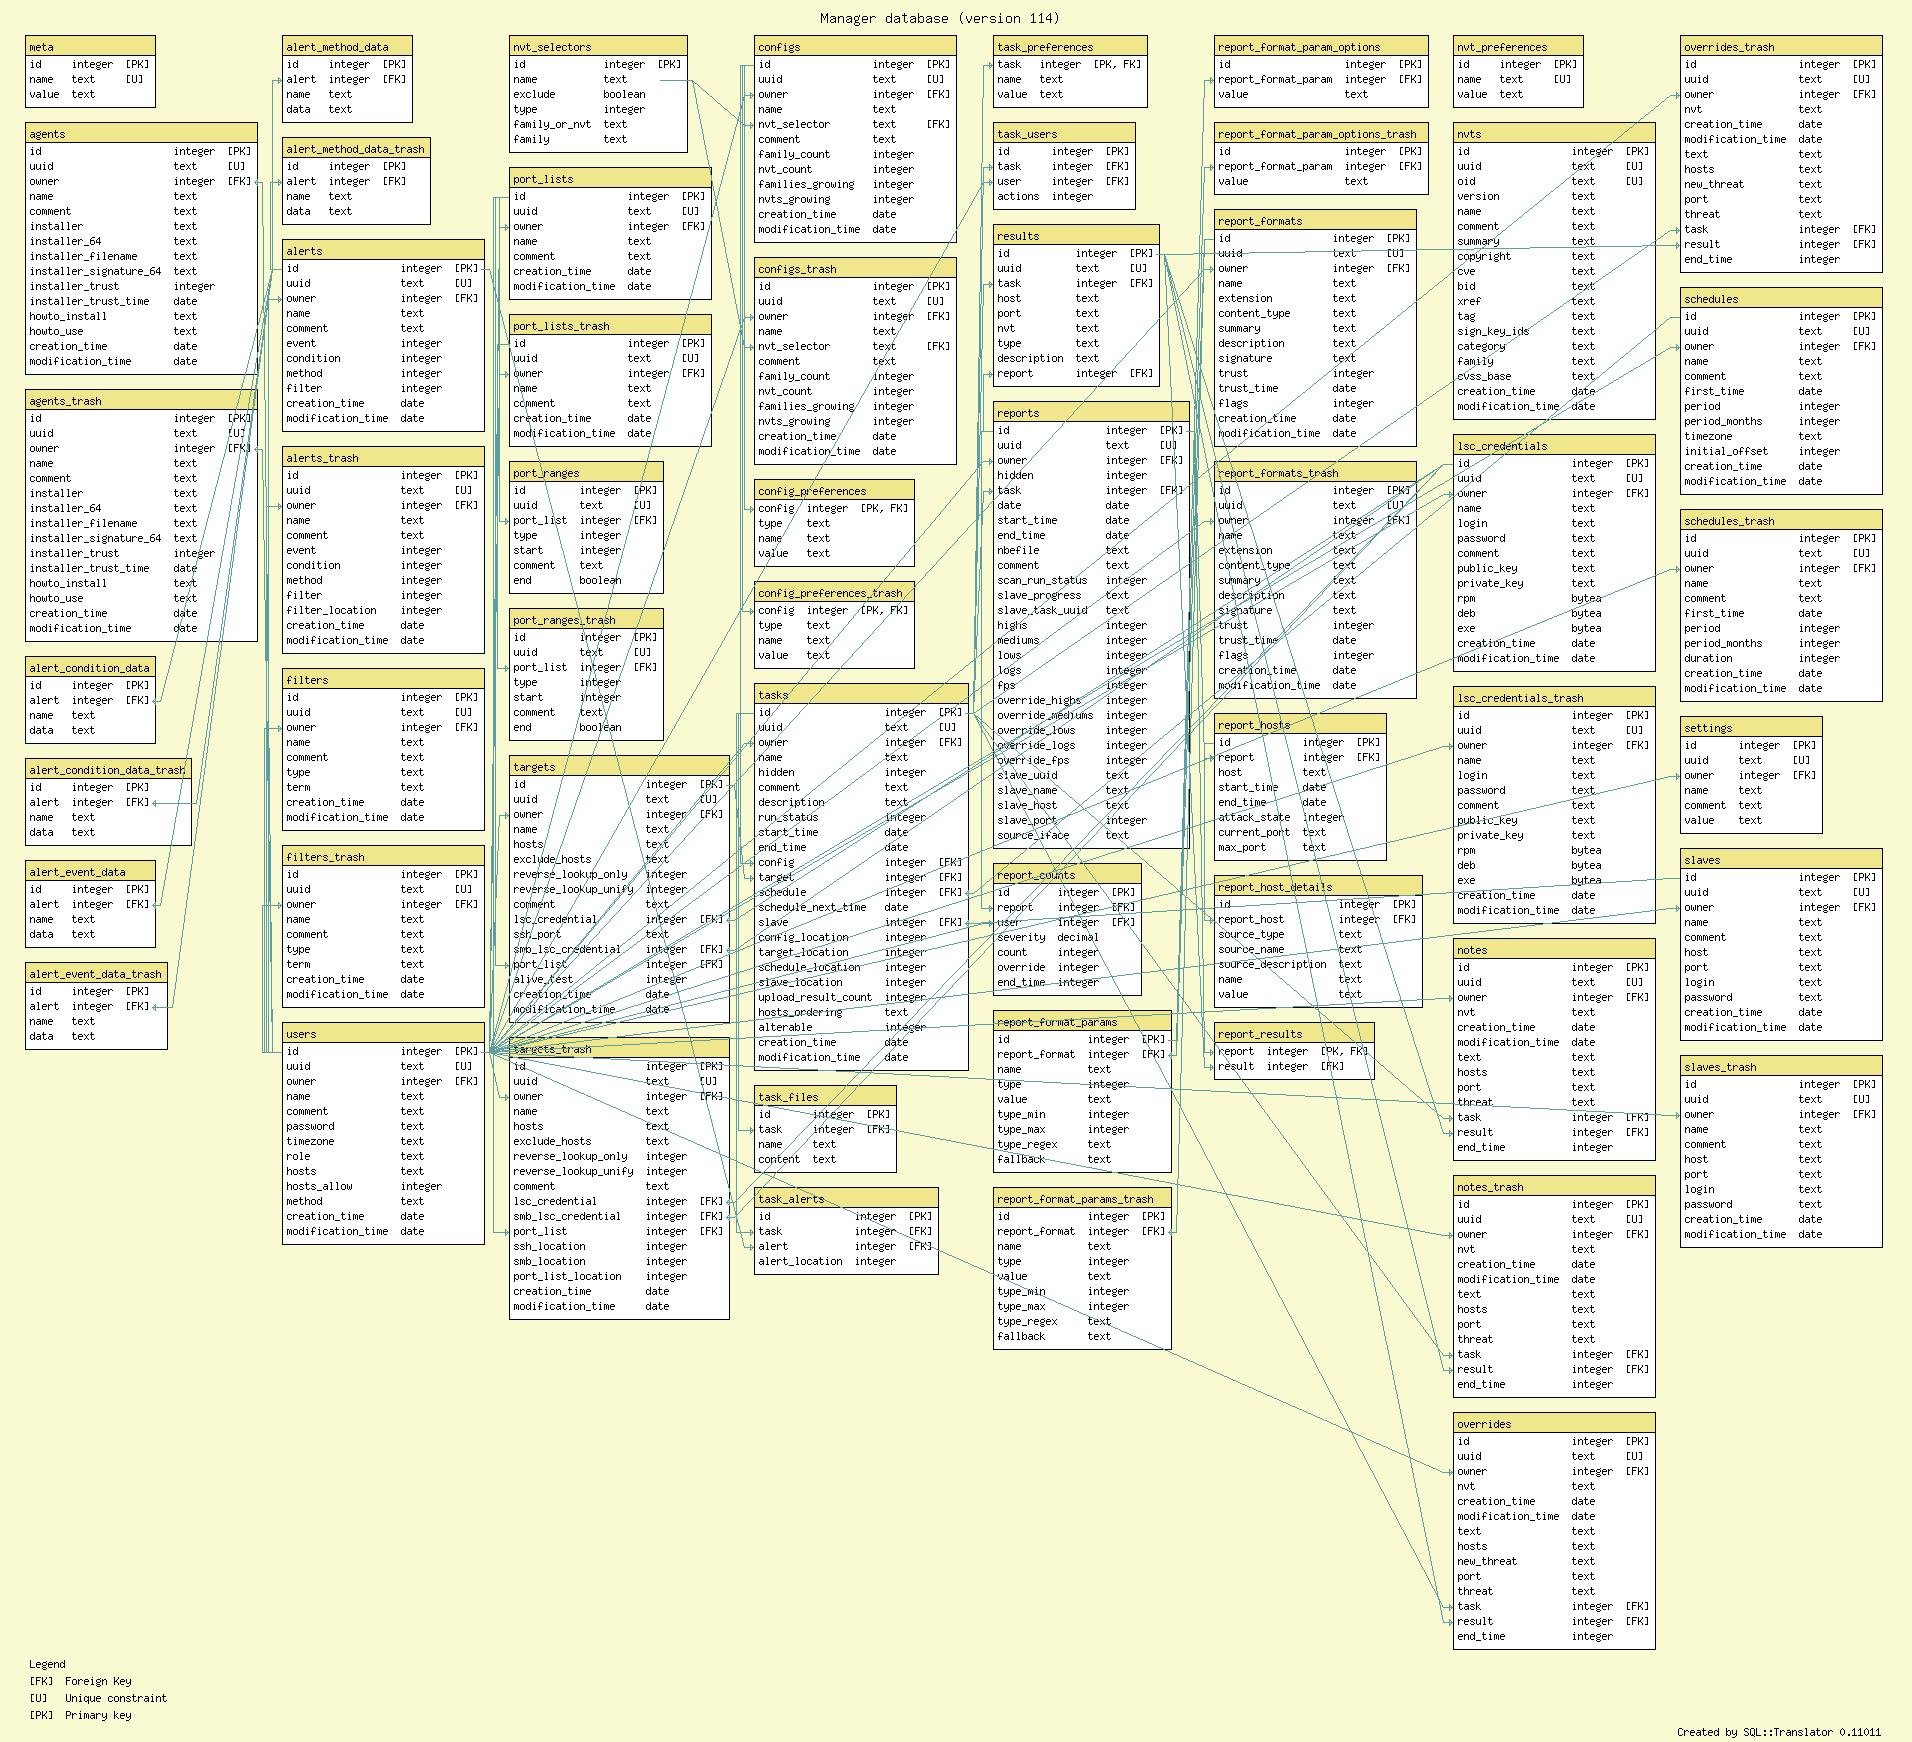
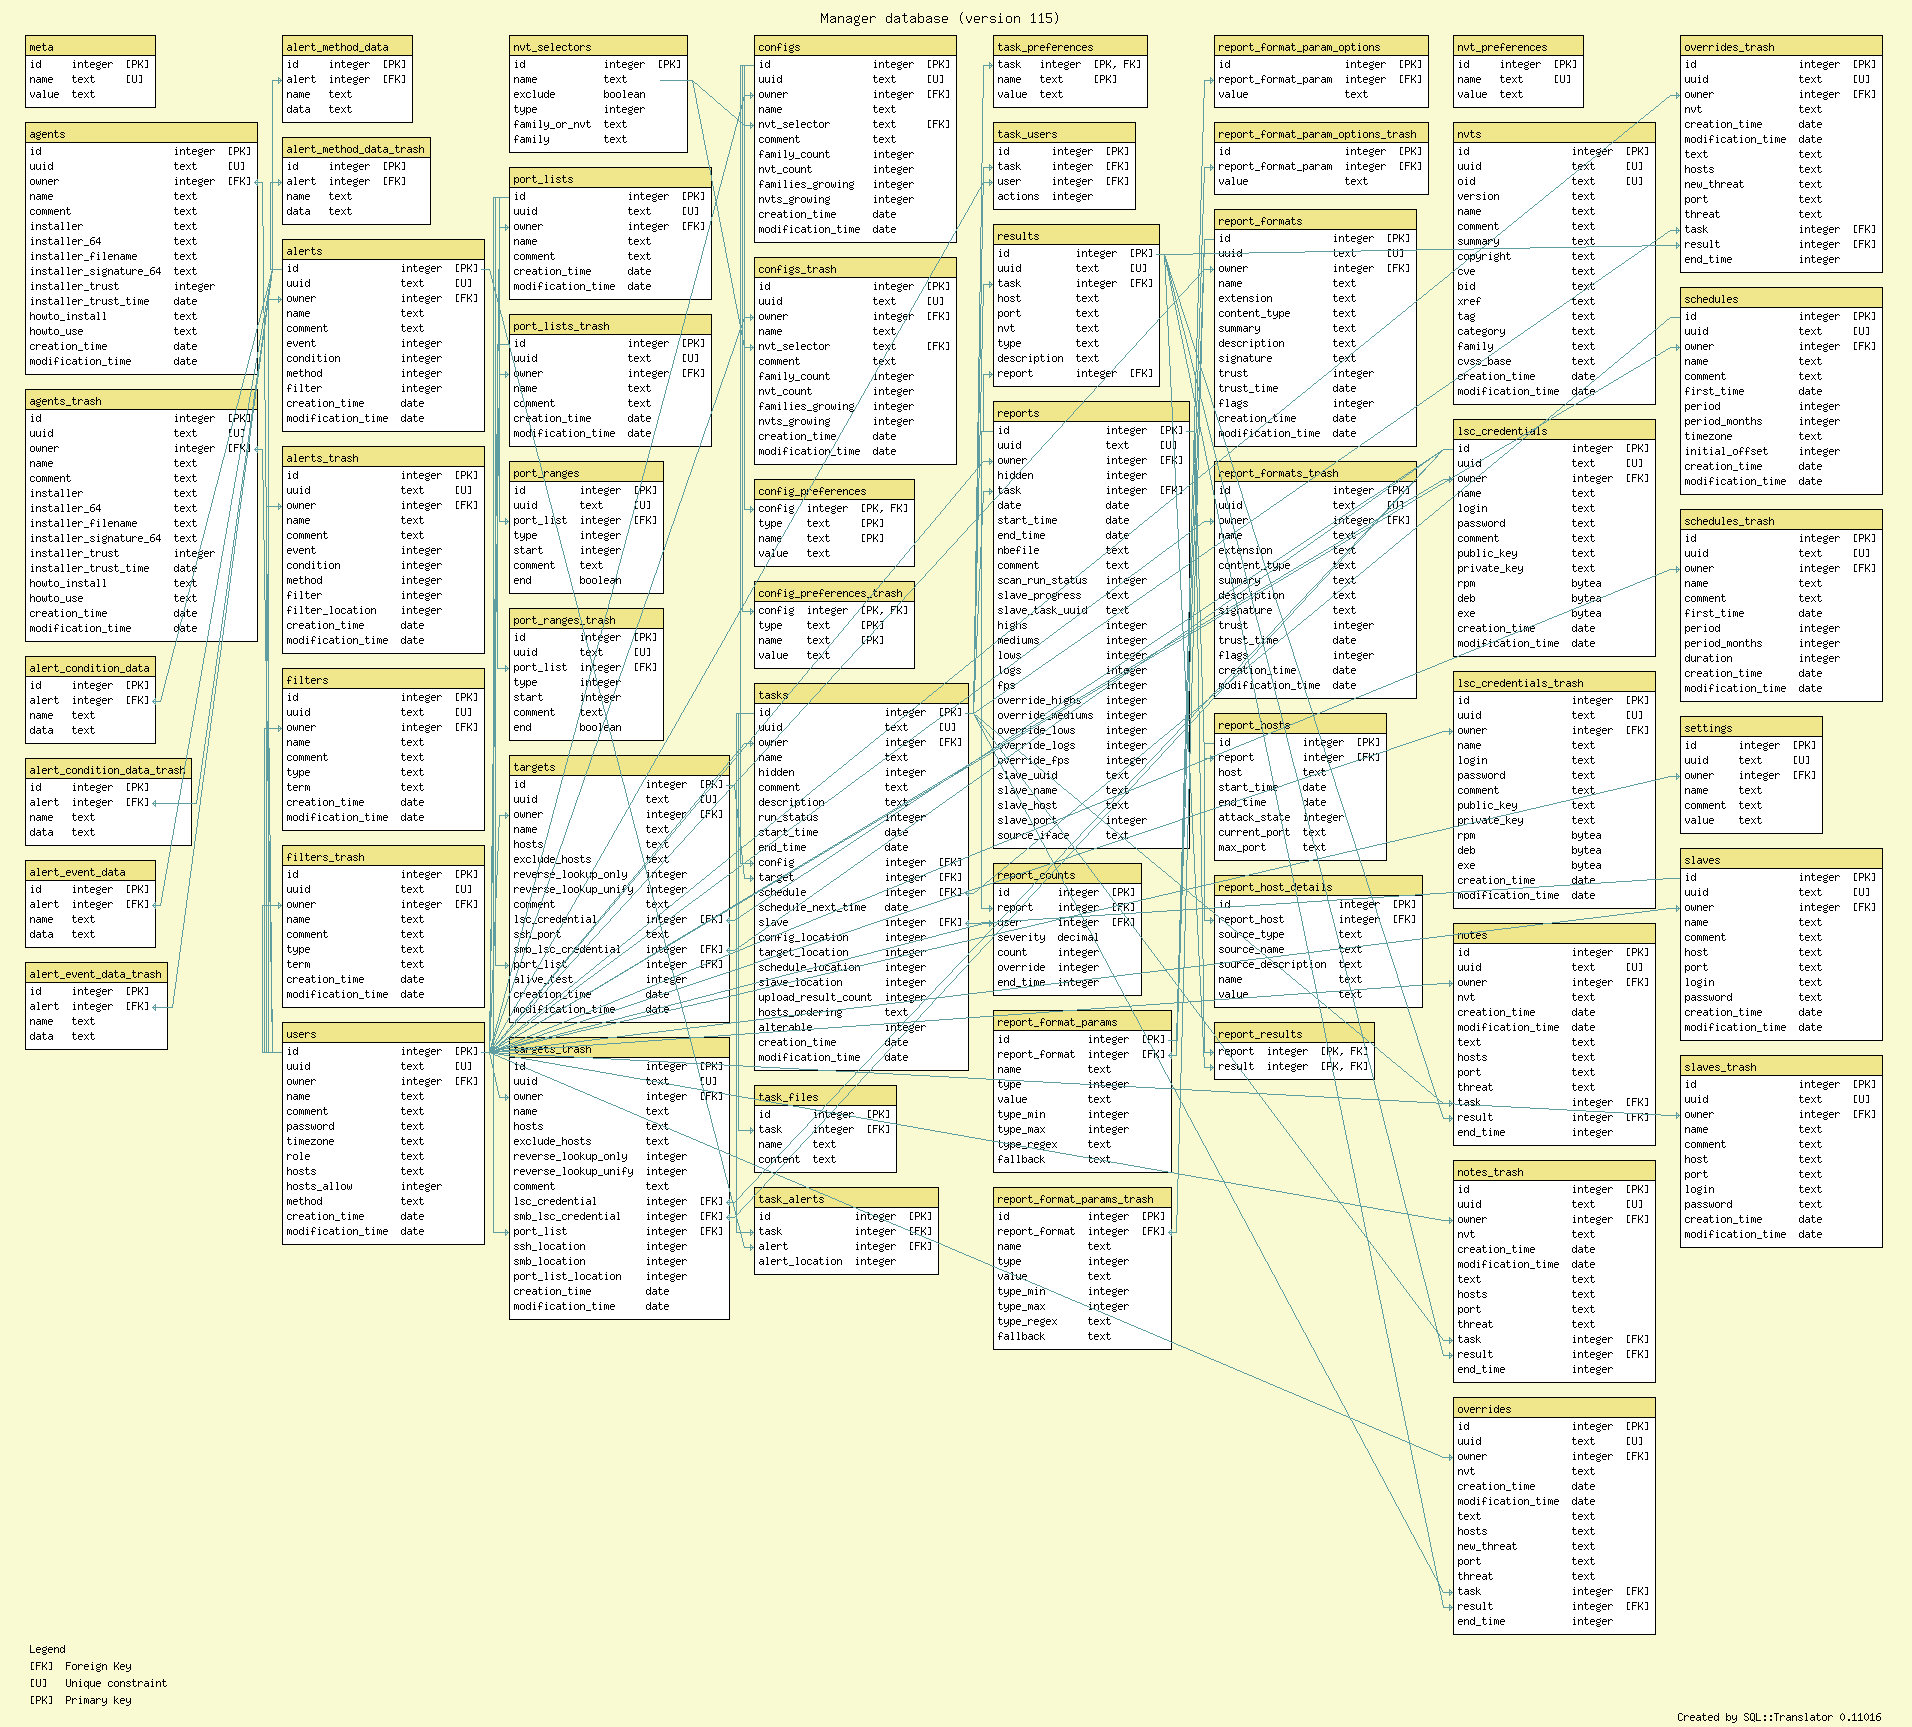
Drop sign_key_ids column from nvts table.  Hence increase database version to 115.  Add database migration from version 114 to 115.
* CMakeLists.txt (OPENVASMD_DATABASE_VERSION): Increase to 115.

* src/manage_migrators.c (migrate_114_to_115): New function.
(database_migrators): Add migrate_114_to_115.

* src/manage_sql.c (create_tables): Remove sign_key_ids from nvts table
creation.

* doc/db_postgres.sql (nvts): Remove sign_key_ids column.

* doc/db.png, doc/omp.html, doc/omp.rnc: Update from source.

* src/schema_formats/XML/OMP.xml: Add compatibility change for
GET_NVTS.

git-svn-id: svn+ssh://scm.wald.intevation.org/openvas/trunk/openvas-manager@19055 423fd1db-d629-0410-8442-d21db03e70f4

diff --git a/doc/omp.html b/doc/omp.html
@@ -13488,10 +13488,6 @@ get_notes_response_note_result_description
               <ul style="list-style: none"></ul>
 </li>
 <li>
-              &lt;<b>fingerprints</b>&gt;
-              <ul style="list-style: none"></ul>
-</li>
-<li>
               &lt;<b>tags</b>&gt;
               <ul style="list-style: none"></ul>
 </li>
@@ -13589,7 +13585,6 @@ get_nvts_response_nvt
            &amp; get_nvts_response_nvt_cert_refs
            &amp; get_nvts_response_nvt_bugtraq_id
            &amp; get_nvts_response_nvt_xrefs
-           &amp; get_nvts_response_nvt_fingerprints
            &amp; get_nvts_response_nvt_tags
            &amp; get_nvts_response_nvt_preference_count?
            &amp; get_nvts_response_nvt_timeout?
@@ -13740,12 +13735,6 @@ get_nvts_response_nvt_xrefs
        text
      }
 
-get_nvts_response_nvt_fingerprints
- = element fingerprints
-     {
-       text
-     }
-
 get_nvts_response_nvt_tags
  = element tags
      {
@@ -13859,7 +13848,6 @@ get_nvts_response_nvt_preferences_preference_default
      &lt;bugtraq_id&gt;NOBID&lt;/bugtraq_id&gt;
      &lt;cert_refs/&gt;
      &lt;xrefs&gt;NOXREF&lt;/xrefs&gt;
-     &lt;fingerprints&gt;NOSIGNKEYS&lt;/fingerprints&gt;
      &lt;tags&gt;NOTAG&lt;/tags&gt;
      &lt;preference_count&gt;-1&lt;/preference_count&gt;
      &lt;timeout/&gt;
@@ -24787,6 +24775,16 @@ run_wizard_response_response
       5.0</h2>
 <div>
 <div><h3>8.1
+          Change in <tt>GET_NVTS</tt>
+</h3></div>
+<p>In short: fingerprint element removed..</p>
+<p>
+        The fingerprint element has been removed as signature keys aren't sent
+        by the scanner anymore and thus, aren't stored in Manager DB anymore.
+      </p>
+</div>
+<div>
+<div><h3>8.2
           Change in <tt>GET_DEPENDENCIES</tt>
 </h3></div>
 <p>In short: Command removed.</p>
@@ -24795,7 +24793,7 @@ run_wizard_response_response
       </p>
 </div>
 <div>
-<div><h3>8.2
+<div><h3>8.3
           Change in <tt>MODIFY_TARGET</tt>
 </h3></div>
 <p>In short: Missing elements now leave the associate target property alone.</p>

diff --git a/src/manage_migrators.c b/src/manage_migrators.c
@@ -8351,6 +8351,56 @@ migrate_113_to_114 ()
 }
 
 /**
+ * @brief Migrate the database from version 114 to version 115.
+ *
+ * @return 0 success, -1 error.
+ */
+int
+migrate_114_to_115 ()
+{
+  sql ("BEGIN EXCLUSIVE;");
+
+  /* Ensure that the database is currently version 114. */
+
+  if (manage_db_version () != 114)
+    {
+      sql ("ROLLBACK;");
+      return -1;
+    }
+
+  /* Rename nvts tables. */
+  sql ("ALTER TABLE nvts RENAME TO nvts_114;");
+
+  /* Create new one without sign_key_ids column. */
+  sql ("CREATE TABLE IF NOT EXISTS nvts"
+       " (id INTEGER PRIMARY KEY, uuid, oid, version, name, comment, summary,"
+       "  copyright, cve, bid, xref, tag, category INTEGER, family, cvss_base,"
+       "  creation_time, modification_time);");
+
+  /* Migrate old nvts data to new table. */
+  sql ("INSERT INTO nvts"
+       " (id, uuid, oid, version, name, comment, summary,"
+       "  copyright, cve, bid, xref, tag,"
+       "  category, family, cvss_base, creation_time, modification_time)"
+       " SELECT id, uuid, oid, version, name, comment, summary,"
+       "  copyright, cve, bid, xref, tag,"
+       "  category, family, cvss_base, creation_time, modification_time"
+       "  FROM nvts_114;");
+
+  /* Delete old nvts table. */
+  sql ("DROP TABLE nvts_114;");
+
+
+  /* Set the database version 115. */
+
+  set_db_version (115);
+
+  sql ("COMMIT;");
+
+  return 0;
+}
+
+/**
  * @brief Array of database version migrators.
  */
 static migrator_t database_migrators[]
@@ -8469,6 +8519,7 @@ static migrator_t database_migrators[]
     {112, migrate_111_to_112},
     {113, migrate_112_to_113},
     {114, migrate_113_to_114},
+    {115, migrate_114_to_115},
     /* End marker. */
     {-1, NULL}};
 

diff --git a/src/manage_sql.c b/src/manage_sql.c
@@ -4077,9 +4077,8 @@ create_tables ()
        " ON nvt_selectors (type, family_or_nvt);");
   sql ("CREATE TABLE IF NOT EXISTS nvts"
        " (id INTEGER PRIMARY KEY, uuid, oid, version, name, comment, summary,"
-       "  copyright, cve, bid, xref, tag, sign_key_ids,"
-       "  category INTEGER, family, cvss_base, creation_time,"
-       "  modification_time);");
+       "  copyright, cve, bid, xref, tag, category INTEGER, family, cvss_base,"
+       "  creation_time, modification_time);");
   sql ("CREATE INDEX IF NOT EXISTS nvts_by_oid"
        " ON nvts (oid);");
   sql ("CREATE INDEX IF NOT EXISTS nvts_by_name"
